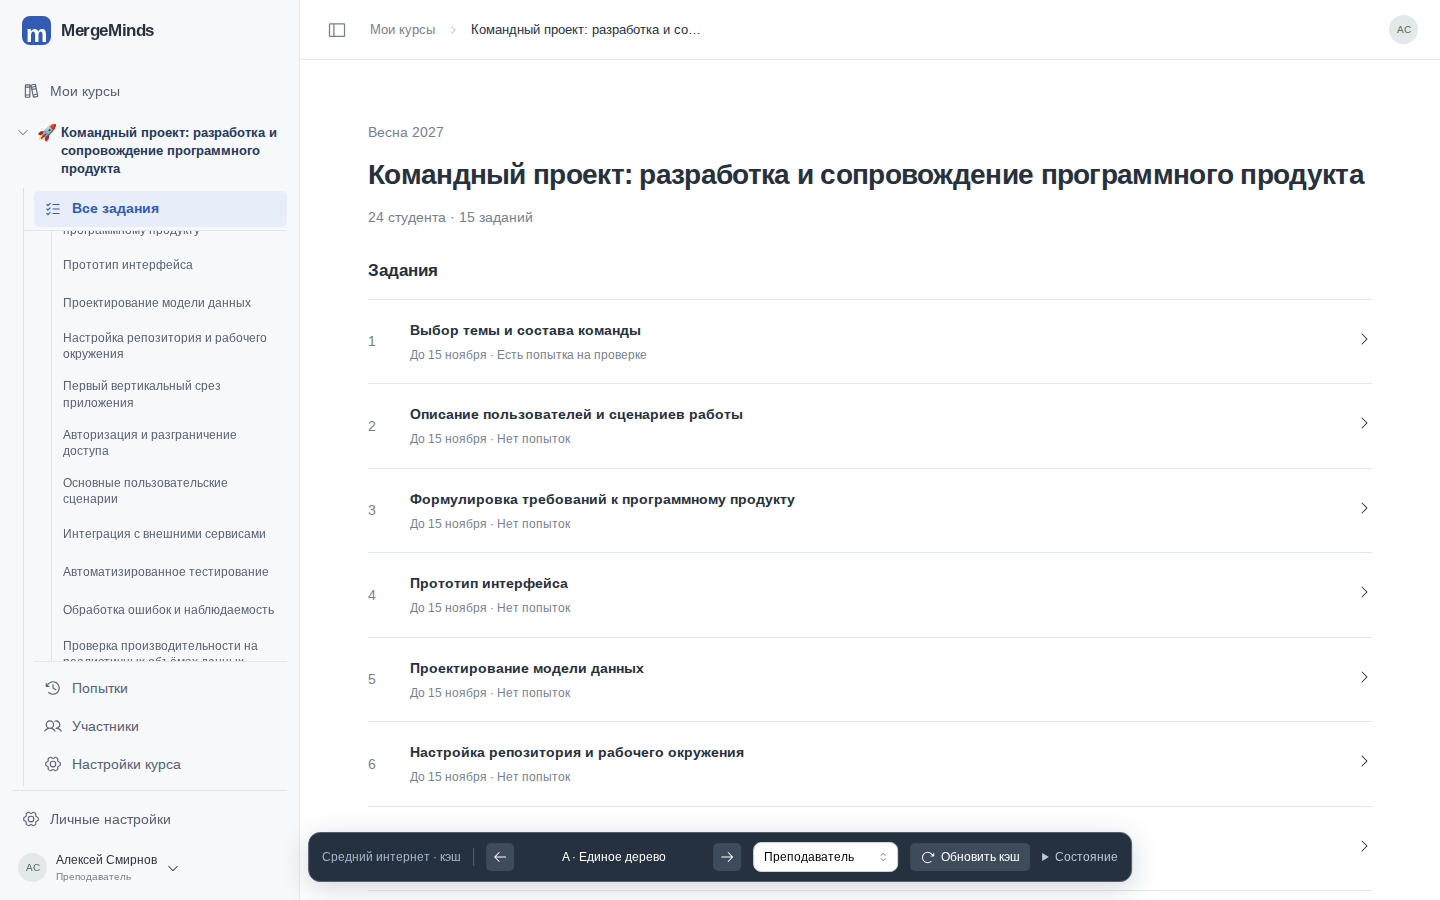
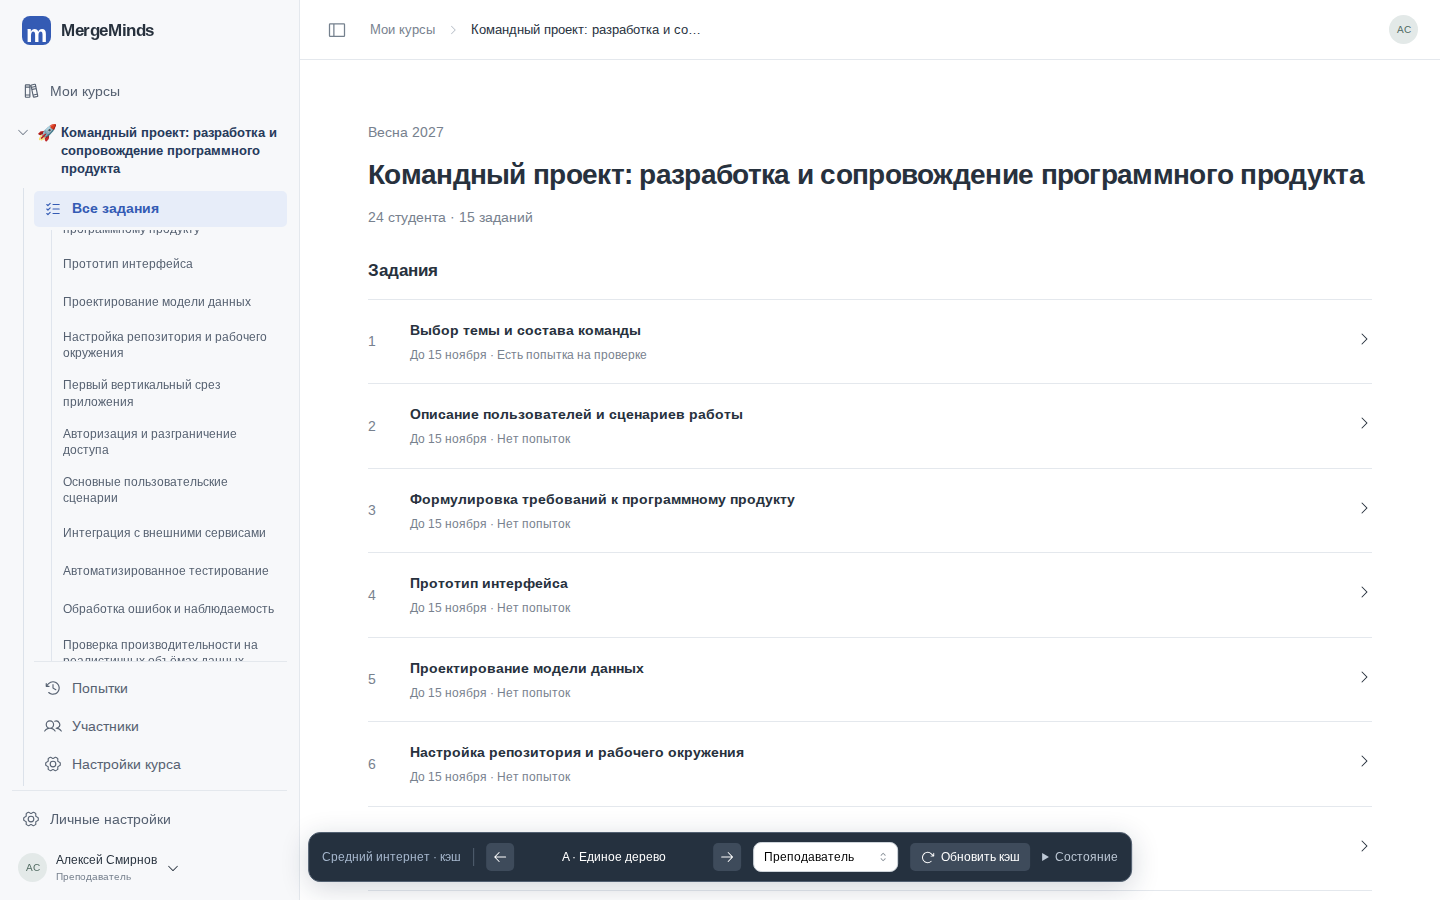
fix(prototype): сомкнуть границы липких блоков курса

diff --git a/src/app/navigation-prototype/navigation-prototype.css b/src/app/navigation-prototype/navigation-prototype.css
@@ -915,5 +915,7 @@
   position: relative;
   padding-top: 1px;
   padding-bottom: 1px;
-  border-bottom: 1px solid var(--np-line);
+}
+.np-course-content > .np-nested {
+  display: flow-root;
 }
